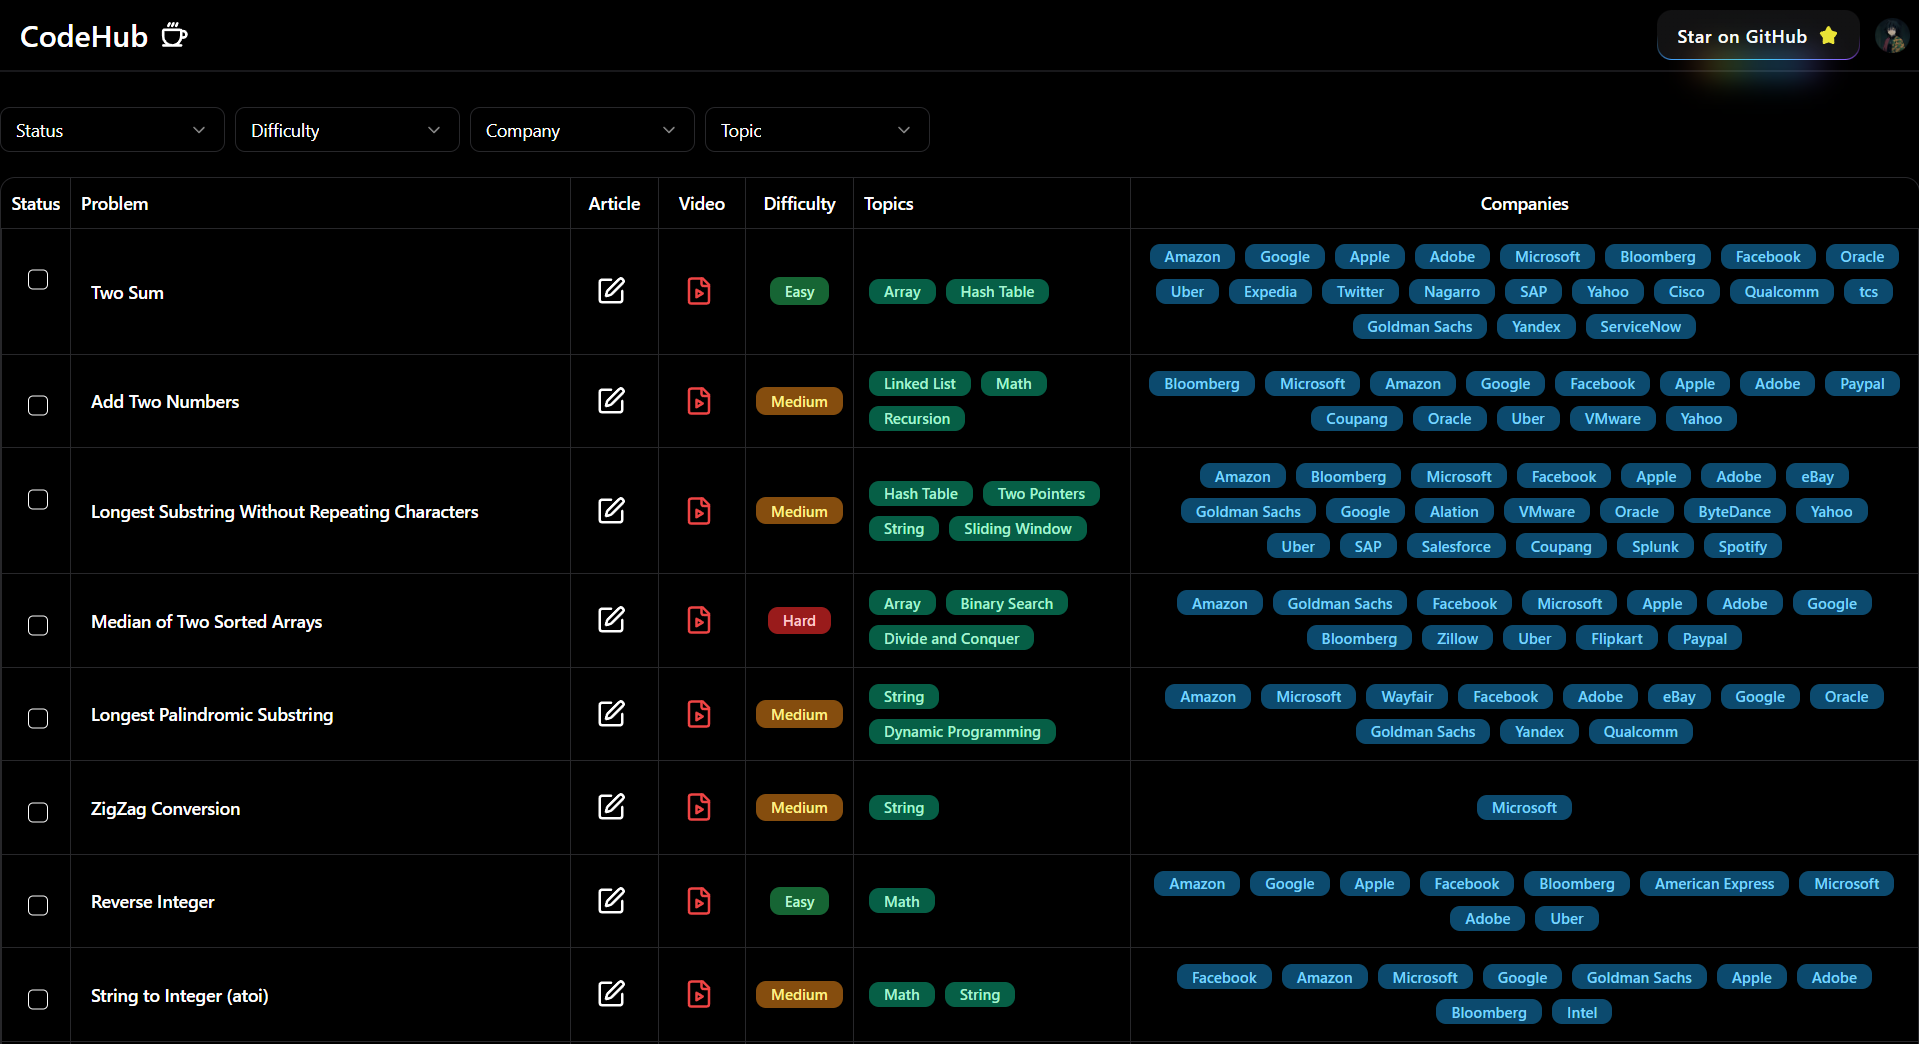
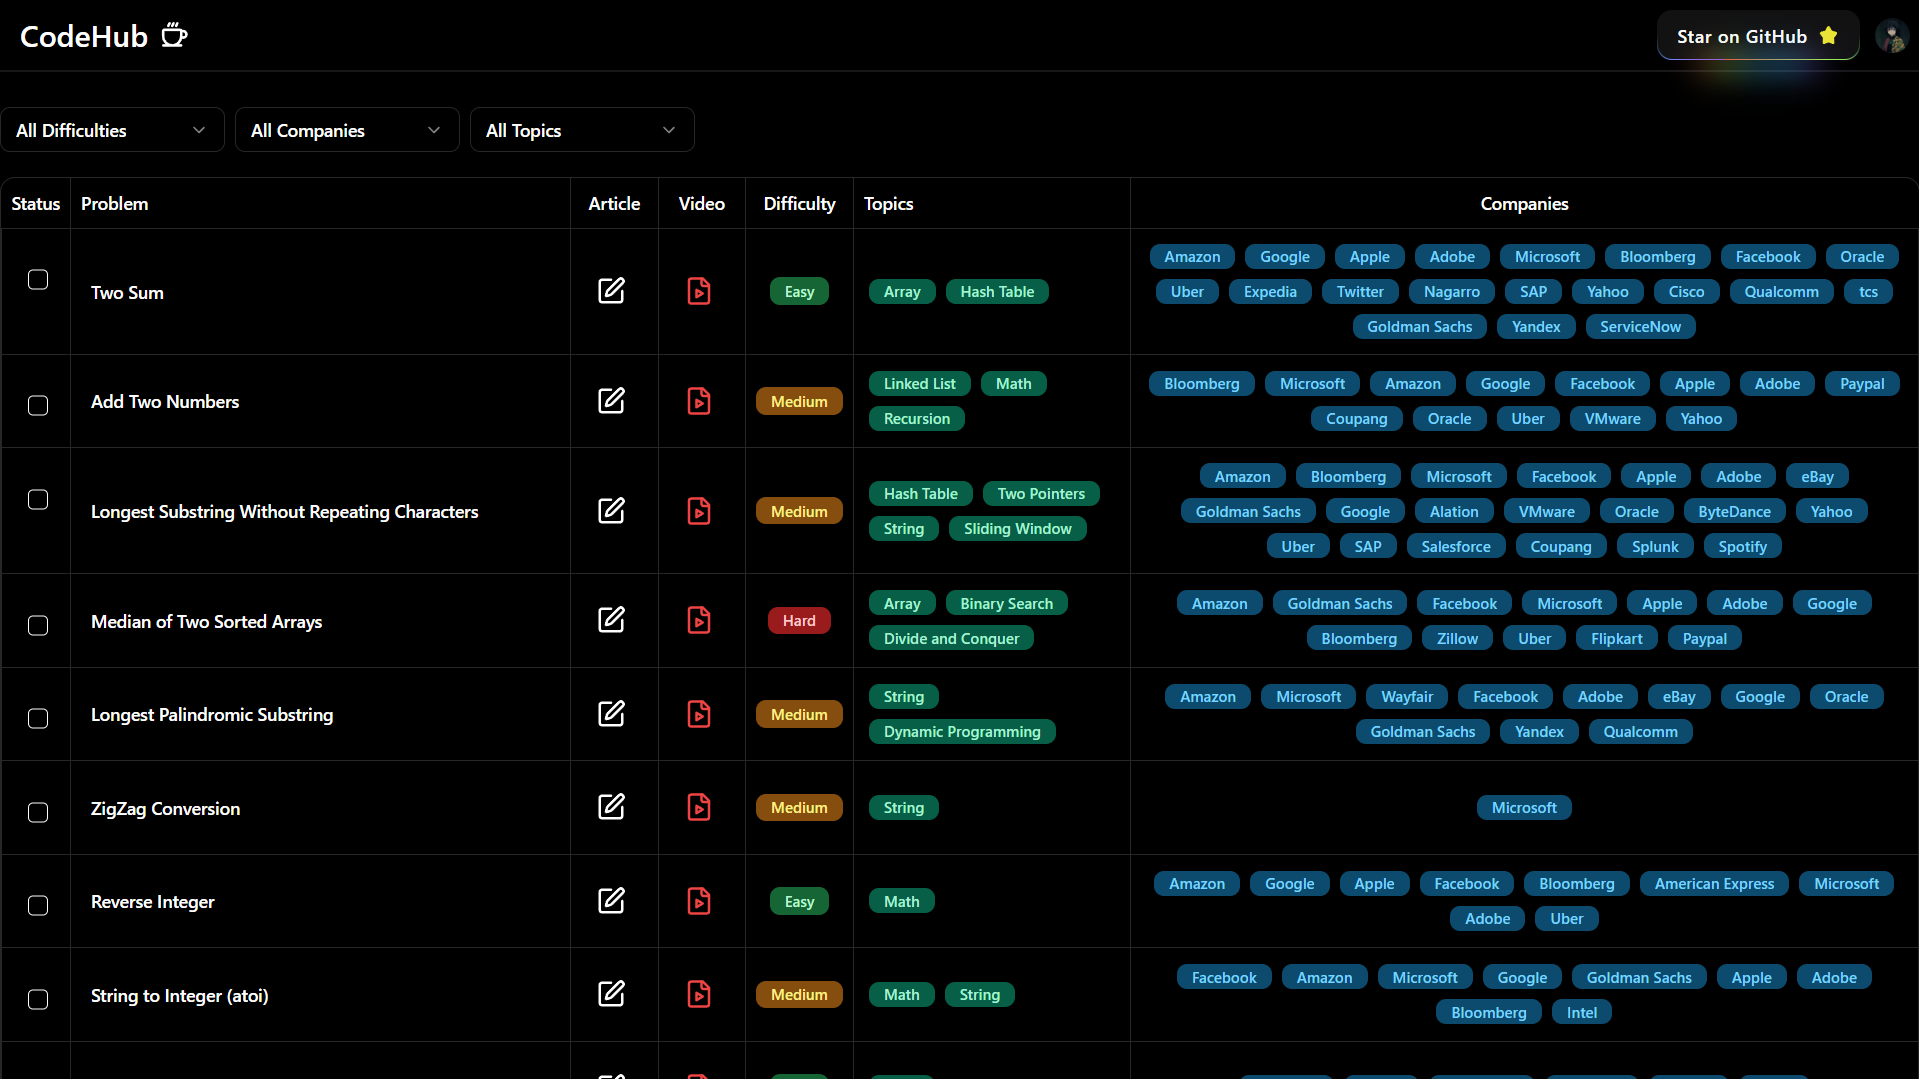
landing page responsive behaviour

diff --git a/src/components/main/sheetData.tsx b/src/components/main/sheetData.tsx
@@ -151,49 +151,61 @@ export default function SheetData(): React.ReactNode {
         <Button onClick={getData} className="bg-black border-zinc-800 border px-3 hover:bg-zinc-800 transition-colors  text-white rounded-lg"><FaSearch /> */}
         {/* </Button> */}
         <Select onValueChange={handleDifficultyChange} value={difficulty}>
-          <SelectTrigger className="w-[180px] hover:bg-zinc-800 text-white border border-zinc-800 rounded-lg ">
+          <SelectTrigger className="w-[180px] hover:bg-zinc-800 text-white border border-zinc-800 rounded-lg font-semibold ">
             <SelectValue placeholder="Difficulty" />
           </SelectTrigger>
-          <SelectContent className="text-white border border-zinc-800 bg-black rounded-lg">
-            <SelectItem value="default" className="cursor-pointer  ">
-              All Difficulties
-            </SelectItem>
-            <SelectItem value="easy" className="cursor-pointer  ">
-              Easy
-            </SelectItem>
-            <SelectItem value="medium" className="cursor-pointer ">
-              Medium
-            </SelectItem>
-            <SelectItem value="hard" className="cursor-pointer ">
-              Hard
-            </SelectItem>
+          <SelectContent className="text-white border border-zinc-800 bg-black rounded-lg font-semibold">
+          <SelectItem 
+          value="default" 
+          className="cursor-pointer data-[highlighted]:bg-zinc-900 transition-colors duration-300"
+        >
+          All Difficulties
+        </SelectItem>
+        <SelectItem 
+          value="easy" 
+          className="cursor-pointer data-[highlighted]:bg-zinc-900 transition-colors duration-300"
+        >
+          Easy
+        </SelectItem>
+        <SelectItem 
+          value="medium" 
+          className="cursor-pointer data-[highlighted]:bg-zinc-900 transition-colors duration-300"
+        >
+          Medium
+        </SelectItem>
+        <SelectItem 
+          value="hard" 
+          className="cursor-pointer data-[highlighted]:bg-zinc-900"
+        >
+          Hard
+        </SelectItem>
           </SelectContent>
         </Select>
         <Select onValueChange={handleCompanyChange} value={company}>
-          <SelectTrigger className="w-[180px] hover:bg-zinc-800 text-white border border-zinc-800 rounded-lg ">
+          <SelectTrigger className="w-[180px] hover:bg-zinc-800 text-white border border-zinc-800 rounded-lg font-semibold">
             <SelectValue placeholder="Company " />
           </SelectTrigger>
-          <SelectContent className="text-white border border-zinc-800 bg-black rounded-lg">
-            <SelectItem value="default" className="cursor-pointer  ">
+          <SelectContent className="text-white border border-zinc-800 bg-black rounded-lg font-semibold">
+            <SelectItem value="default" className="cursor-pointer  data-[highlighted]:bg-zinc-900    ">
               All Companies
             </SelectItem>
             {companies.map((company, idx) => (
-              <SelectItem key={idx} value={company} className="cursor-pointer  ">
+              <SelectItem key={idx} value={company} className="cursor-pointer   data-[highlighted]:bg-zinc-900   ">
                 {company}
               </SelectItem>
             ))}
           </SelectContent>
         </Select>
         <Select onValueChange={handleTopicChange} value={topic}>
-          <SelectTrigger className="w-[180px] hover:bg-zinc-800 text-white border border-zinc-800 rounded-lg ">
+          <SelectTrigger className="w-[180px] hover:bg-zinc-800 text-white border border-zinc-800 rounded-lg font-semibold ">
             <SelectValue placeholder="Topic" />
           </SelectTrigger>
-          <SelectContent className="text-white border border-zinc-800 bg-black rounded-lg">
-            <SelectItem key={"default"} value={"default"} className="cursor-pointer  ">
+          <SelectContent className="text-white border border-zinc-800 bg-black rounded-lg font-semibold">
+            <SelectItem key={"default"} value={"default"} className="cursor-pointer data-[highlighted]:bg-zinc-900  ">
               All Topics
             </SelectItem>
             {topics.map((topic, idx) => (
-              <SelectItem key={idx} value={topic} className="cursor-pointer  ">
+              <SelectItem key={idx} value={topic} className="cursor-pointer data-[highlighted]:bg-zinc-900  ">
                 {topic}
               </SelectItem>
             ))}

diff --git a/src/app/page.tsx b/src/app/page.tsx
@@ -7,38 +7,67 @@ import { FaXTwitter } from "react-icons/fa6";
 import { FaDiscord } from "react-icons/fa";
 import { FaGithub } from "react-icons/fa";
 
-
 export default function Home() {
   return (
     <main className="bg-black h-[calc(100vh-58px)]">
       <LandingPage />
       <div className="bg-black relative bottom-16">
-
-      <BlurFade delay={0.25 * 5}>
-      <NeonGradientCard className="w-[1000px] h-auto mx-auto" borderSize={1} neonColors={{firstColor: "yellow , orange", secondColor: "blue, green"}}>
-        <Image src={"/dashboard.png"} alt="Image" width={1920} height={1080}>
-
-        </Image>
-      </NeonGradientCard>
-      </BlurFade>
-      <div className="mt-20">
-        <div className="flex bg-black w-full h-auto justify-between">
-          <h1 className="text-sm font-semibold text-white ml-3 mb-2">Developed With प्यार By <Link href={"https://x.com/ayusssshhhhhhh"} className="underline hover:no-underline hover:text-zinc-400 transition-colors duration-200" target="_blank"> @ayusssshhhhhhh </Link></h1>
-          <div className="text-2xl font-semibold text-white flex gap-3 mr-2 mb-2">
-            <Link href={"https://twitter.com/ayusssshhhhhhh"} className="underline hover:text-zinc-400 transition-colors duration-200" target="_blank">
-            <FaXTwitter />
-            </Link>
-            <Link href={"https://discord.gg/butxCZyntw"} className="underline hover:text-zinc-400 transition-colors duration-200" target="_blank">
-            <FaDiscord />
-            </Link>
-            <Link href={"https://github.com/ayushsharma74"} className="underline hover:text-zinc-400 transition-colors duration-200" target="_blank">
-            <FaGithub />
-            </Link>
+        <BlurFade delay={0.25 * 5}>
+          <NeonGradientCard
+            className="max-w-[1000px] h-fit mx-auto"
+            borderSize={1}
+            neonColors={{
+              firstColor: "yellow , orange",
+              secondColor: "blue, green",
+            }}
+          >
+            <Image
+              src={"/dashboard.png"}
+              alt="Image"
+              width={1920}
+              height={1080}
+            ></Image>
+          </NeonGradientCard>
+        </BlurFade>
+        <div className="mt-20">
+          <div className="flex bg-black w-full h-auto justify-between">
+            <h1 className="text-sm font-semibold text-white ml-3 mb-2">
+              Developed With प्यार By{" "}
+              <Link
+                href={"https://x.com/ayusssshhhhhhh"}
+                className="underline hover:no-underline hover:text-zinc-400 transition-colors duration-200"
+                target="_blank"
+              >
+                {" "}
+                @ayusssshhhhhhh{" "}
+              </Link>
+            </h1>
+            <div className="text-2xl font-semibold text-white flex gap-3 mr-2 mb-2">
+              <Link
+                href={"https://twitter.com/ayusssshhhhhhh"}
+                className="underline hover:text-zinc-400 transition-colors duration-200"
+                target="_blank"
+              >
+                <FaXTwitter />
+              </Link>
+              <Link
+                href={"https://discord.gg/butxCZyntw"}
+                className="underline hover:text-zinc-400 transition-colors duration-200"
+                target="_blank"
+              >
+                <FaDiscord />
+              </Link>
+              <Link
+                href={"https://github.com/ayushsharma74"}
+                className="underline hover:text-zinc-400 transition-colors duration-200"
+                target="_blank"
+              >
+                <FaGithub />
+              </Link>
             </div>
+          </div>
         </div>
       </div>
-        </div>
-        
     </main>
   );
 }

diff --git a/src/components/LandingContent.tsx b/src/components/LandingContent.tsx
@@ -4,10 +4,7 @@ import { RainbowButton } from "./ui/rainbow-button";
 import WordFadeIn from "./ui/word-fade-in";
 import { Roboto } from "next/font/google";
 import Link from "next/link";
-import {RegisterLink, LoginLink} from "@kinde-oss/kinde-auth-nextjs/server";
-import Button from "./GetStartedButton";
-import { annotate } from 'rough-notation';
-import { RoughNotation, RoughNotationGroup } from "react-rough-notation";
+import { RoughNotation } from "react-rough-notation";
 
 
 const roboto = Roboto({ weight: "500", subsets: ["latin"] });
@@ -20,7 +17,7 @@ type Props = {
 
 const LandingContent = (props: Props) => {
   return (
-    <div className="flex items-center gap-4 justify-center flex-col text-white z-10 absolute top-1/3 left-1/2 -translate-x-1/2 -translate-y-1/2">
+    <div className="flex min-w-[300px] items-center gap-4 justify-center flex-col text-white z-10 absolute top-1/3 left-1/2 -translate-x-1/2 -translate-y-1/2">
       <AnimatedShinyTextDemo />
       <WordFadeIn
         words={props.HeadingText}
@@ -32,12 +29,13 @@ const LandingContent = (props: Props) => {
       Solve <RoughNotation type="box" show={true} color="yellow"> 1,000+ Problems  </RoughNotation> with video solutions asked in various companies here and crack coding interviews at your dream companies<RoughNotation type="underline" show={true} color="yellow"> completely FREE.</RoughNotation> 
         </p>
        
-
+        <Link href={"/main"}>
       <RainbowButton className=" rounded-[7px] mt-3 text-lg text-black font-semibold hover:animate-color-change" style={{ padding: "10px 20px" , background: "#d3dbd5"}}>
         {/* <Button ></Button> */}
-         <Link href={"/main"}>{props.ButtonText}</Link>
+        {props.ButtonText}
         {/* </Button> */}
       </RainbowButton>
+      </Link>
     </div>
   );
 };

diff --git a/src/app/main/page.tsx b/src/app/main/page.tsx
@@ -7,11 +7,14 @@ import Link from "next/link";
 export default function MainPage(): React.ReactNode {
   return (
     <main className="w-[100vw] h-fit pt-7 bg-black  ">
-      <div className=" w-full h-full bg-black rounded-lg pb-5">
+      <div className=" w-full h-full min-h-screen bg-black rounded-lg pb-5">
         {/* <SelectionBar /> */}
           <SheetData />
           <div className="mt-40 mx-3">
-        <div className="flex bg-black w-full h-auto justify-between">
+        
+      </div>
+      </div>
+      <div className="flex bg-black w-full h-auto justify-between">
           <h1 className="text-sm font-semibold text-white ml-3 ">Developed With प्यार By <Link href={"https://x.com/ayusssshhhhhhh"} className="underline hover:no-underline hover:text-zinc-400 transition-colors duration-200" target="_blank"> @ayusssshhhhhhh </Link></h1>
           <div className="text-2xl font-semibold text-white flex gap-3 mr-2 mb-2">
             <Link href={"https://twitter.com/ayusssshhhhhhh"} className="underline hover:text-zinc-400 transition-colors duration-200" target="_blank">
@@ -25,8 +28,6 @@ export default function MainPage(): React.ReactNode {
             </Link>
             </div>
         </div>
-      </div>
-      </div>
     </main>
   );
 }

diff --git a/src/components/Navbar.tsx b/src/components/Navbar.tsx
@@ -2,12 +2,9 @@
 import React from "react";
 import { RainbowButton } from "./ui/rainbow-button";
 import Image from "next/image";
-import { Avatar, AvatarFallback, AvatarImage } from "@/components/ui/avatar";
 import { AccountSettingsDropdownMenu } from "./main/DropdownMenu";
 import Link from "next/link";
 import { SignedIn, UserButton } from "@clerk/nextjs";
-import BlurFade from "./ui/blur-fade";
-import WordFadeIn from "./ui/word-fade-in";
 
 const Navbar = () => {
   return (
@@ -23,6 +20,7 @@ const Navbar = () => {
       </Link>
       <div className="text-white flex gap-3 items-center">
         {/* TODO: ADD GITHUB ICON HERE */}
+        <Link href={"https://github.com/ayushsharma74/codehub"}>
         <RainbowButton className="flex gap-2 font-seminold h-10 text-sm tracking-wider px-4">
           Star on GitHub
           <Image
@@ -32,6 +30,7 @@ const Navbar = () => {
             alt="star"
           />
         </RainbowButton>
+        </Link>
         <AccountSettingsDropdownMenu>
           <SignedIn>
               <UserButton />

diff --git a/src/components/LandingShinyText.tsx b/src/components/LandingShinyText.tsx
@@ -13,7 +13,7 @@ export function AnimatedShinyTextDemo() {
         )}
       >
         <AnimatedShinyText className="inline-flex items-center text-zinc-400 justify-center px-4 py-1 transition ease-out hover:text-zinc-400 hover:duration-100 text-xs font-semibold">
-          <button >✨ Introducing Codehub</button>
+          <button >✨ Proudly OSS</button>
 
           <ArrowRightIcon className="ml-1 size-3 transition-transform duration-300 ease-in-out group-hover:translate-x-0.5" />
         </AnimatedShinyText>
